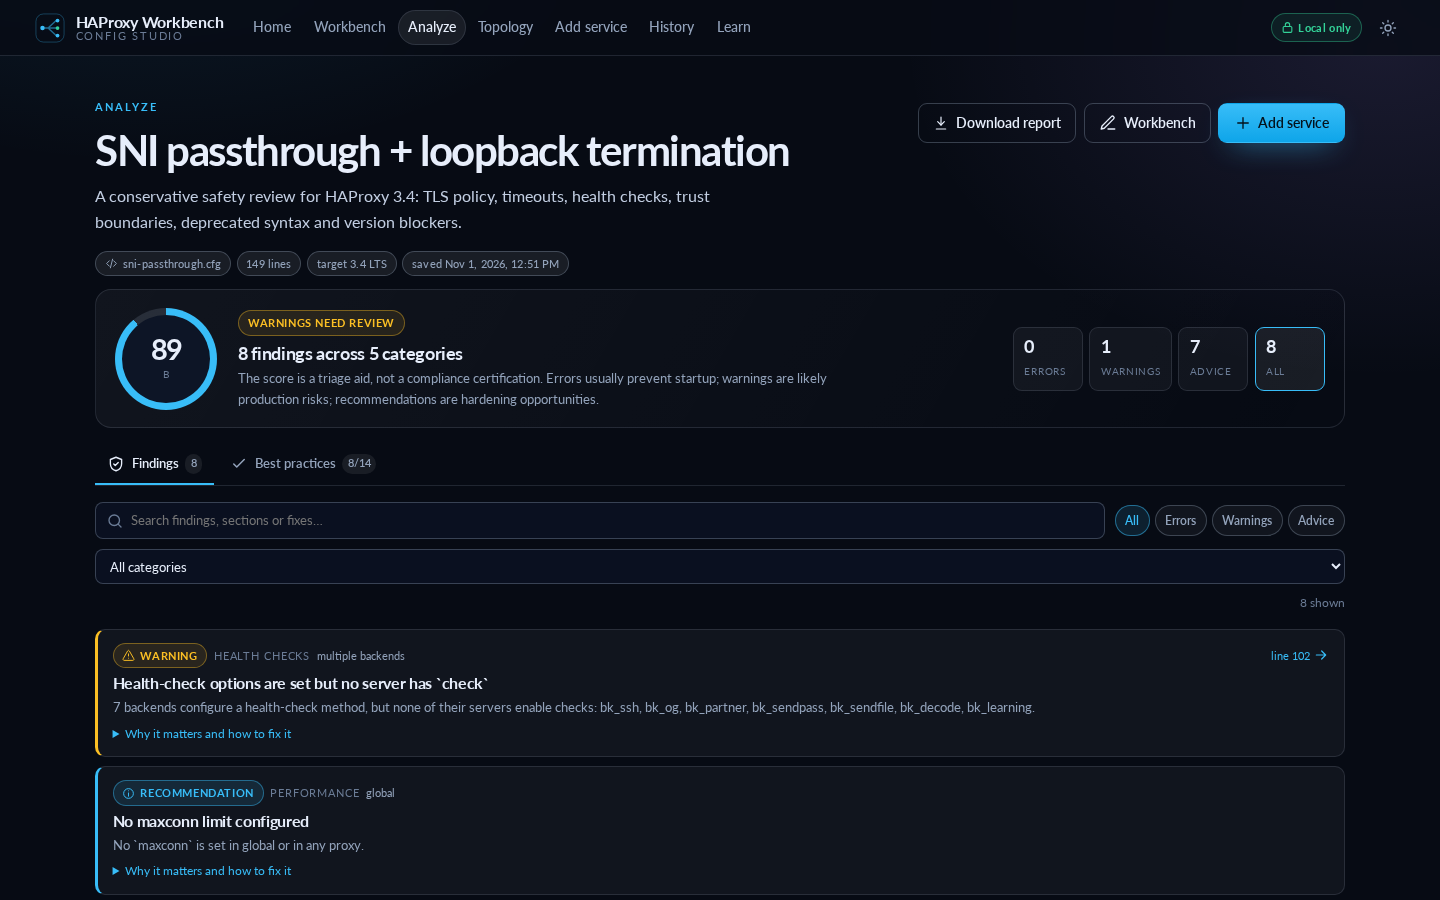
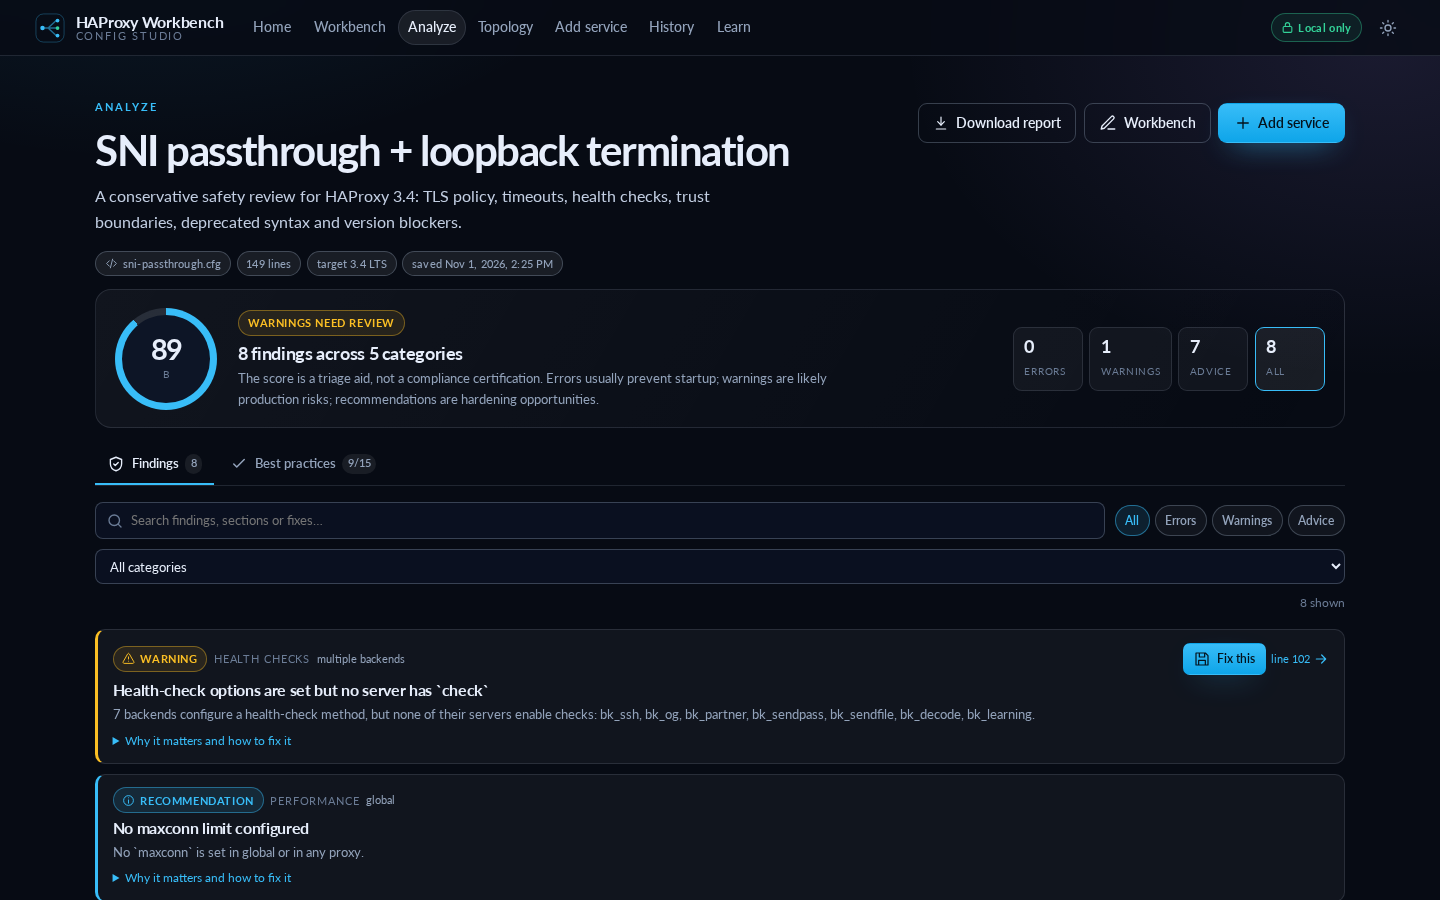
Add one-click warning remediation with config comparison
- Add Fix this action for safe warning findings
- Show full old and new fixed configuration before applying
- Add health-check remediation from the warning card
- Add keep-alive, stats timeout and Runtime API socket fixes
- Show score and warning deltas plus exact diff and risk
- Save applied fixes as new local history versions
- Bump application version to 1.2.0

Changed region(s): [[0.0625, 0.7156, 0.9375, 0.9956], [0.8125, 0.7156, 0.9062, 0.7778], [0.375, 0.28, 0.4062, 0.3111]]

diff --git a/public/assets/js/pages/analyze.js b/public/assets/js/pages/analyze.js
@@ -2,7 +2,9 @@ import { CATEGORY_LABELS, analyzeConfig } from '../config/analyzer.js';
 import {
   BEST_PRACTICE_FIXES,
   applyBestPracticeFixes,
+  applyFindingFix,
   buildBestPracticeChecklist,
+  canFixFinding,
 } from '../config/bestpractices.js';
 import { diffLines } from '../config/diff.js';
 import { parseConfig } from '../config/parser.js';
@@ -15,6 +17,7 @@ import {
   esc,
   formatDate,
   icon,
+  renderConfigCompare,
   renderDiff,
   scoreGauge,
   severityPill,
@@ -29,8 +32,9 @@ const STATUS = {
   'n/a': { label: 'Not applicable', tone: 'neutral', icon: 'info' },
 };
 
-function findingCard(finding) {
+function findingCard(finding, index, model) {
   const severity = SEVERITY[finding.severity] || SEVERITY.info;
+  const fixable = canFixFinding(model, finding);
   const lineLink = finding.line
     ? `<a class="line-link" href="#/workbench?line=${finding.line}">line ${finding.line} ${icon('arrow')}</a>`
     : '';
@@ -43,7 +47,10 @@ function findingCard(finding) {
       <span class="finding-category">${esc(CATEGORY_LABELS[finding.category] || finding.category)}</span>
       ${finding.section ? `<span class="finding-section">${esc(finding.section)}</span>` : ''}
       ${version}
-      ${lineLink}
+      <div class="finding-actions">
+        ${fixable ? `<button class="btn btn-primary btn-sm" type="button" data-fix-finding="${index}" title="Preview a safe fix and compare the old and new configuration">${icon('save')}Fix this</button>` : ''}
+        ${lineLink}
+      </div>
     </div>
     <h3>${esc(finding.title)}</h3>
     <p>${esc(finding.detail)}</p>
@@ -199,7 +206,7 @@ export async function renderAnalyze(view, query) {
         <span class="filter-result" data-filter-result>${analysis.findings.length} shown</span>
       </div>
       <div class="finding-list" data-finding-list>
-        ${analysis.findings.length ? analysis.findings.map(findingCard).join('') : `<div class="empty-panel">${icon('check')}<h2>No findings</h2><p>The built-in analyzer found nothing in this configuration. That is unusual; still validate with <code>haproxy -c</code> and a staging test.</p></div>`}
+        ${analysis.findings.length ? analysis.findings.map((finding, index) => findingCard(finding, index, model)).join('') : `<div class="empty-panel">${icon('check')}<h2>No findings</h2><p>The built-in analyzer found nothing in this configuration. That is unusual; still validate with <code>haproxy -c</code> and a staging test.</p></div>`}
       </div>
       <div class="empty-filter" data-finding-empty hidden>${icon('search')}No findings match the current filter.</div>
       <div class="callout info analyze-disclaimer">${icon('info')}<p><strong>What this does not do:</strong> it does not execute HAProxy, resolve DNS, read certificate files, validate Lua or know your application’s semantics. Use <code>haproxy -c -f</code> with the target binary and test in staging.</p></div>
@@ -287,6 +294,88 @@ export async function renderAnalyze(view, query) {
   });
   applyFilters();
 
+  const openFindingFix = (finding) => {
+    const result = applyFindingFix(current.text, finding);
+    if (!result.applied.length) {
+      toast('No safe automatic fix could be applied to this finding. Use the recommendation as a manual change.', { tone: 'neutral', duration: 5500 });
+      return;
+    }
+    const proposedModel = parseConfig(result.text);
+    const proposedAnalysis = analyzeConfig(proposedModel);
+    const diff = diffLines(current.text, result.text);
+    const appliedFixes = result.applied
+      .map((item) => BEST_PRACTICE_FIXES.find((fix) => fix.id === item.id))
+      .filter(Boolean);
+    const risks = [...new Set(appliedFixes.map((fix) => fix.risk).filter(Boolean))];
+    const errorIncrease = proposedAnalysis.counts.error > analysis.counts.error;
+
+    const dialog = document.createElement('dialog');
+    dialog.className = 'modal fix-preview-modal';
+    dialog.innerHTML = `
+      <div class="modal-card">
+        <div class="modal-head">
+          <span class="pill accent">${icon('save')}Safe automatic fix</span>
+          <h2>Fix: ${esc(finding.title)}</h2>
+          <p class="modal-lede">${esc(finding.detail)}</p>
+        </div>
+        <div class="fix-impact">
+          <span class="pill">Score ${analysis.score} → <strong>${proposedAnalysis.score}</strong></span>
+          <span class="pill ${proposedAnalysis.counts.error ? 'danger' : 'ok'}">${proposedAnalysis.counts.error} errors</span>
+          <span class="pill ${proposedAnalysis.counts.warning ? 'warn' : 'ok'}">${proposedAnalysis.counts.warning} warnings</span>
+          <span class="pill neutral">${diff.added} added / ${diff.removed} removed</span>
+        </div>
+        <ul class="applied-list">${result.applied.map((item) => `<li>${icon('check')}<span><strong>${esc(item.title)}</strong> — ${esc(item.summary)}</span></li>`).join('')}</ul>
+        ${errorIncrease ? `<div class="callout danger">${icon('warning')}<p><strong>Do not apply this automatically.</strong> The proposed config contains more errors than the current one. Review the diff and fix it manually.</p></div>` : ''}
+        <div class="section-head small"><div><span class="eyebrow">Review</span><h3>Old vs new fixed configuration</h3></div><p>Both versions are shown in full. The old version remains in local history after applying.</p></div>
+        ${renderConfigCompare(current.text, result.text)}
+        <details class="fix-details"><summary>Show exact line diff (+${diff.added} / −${diff.removed})</summary>${renderDiff(diff, { compact: true })}</details>
+        ${risks.length ? `<div class="callout warn fix-risk">${icon('warning')}<div><strong>Risk to review</strong><ul>${risks.map((risk) => `<li>${esc(risk)}</li>`).join('')}</ul></div></div>` : ''}
+        <div class="modal-actions">
+          <button class="btn btn-ghost" type="button" data-action="cancel-finding-fix">Cancel</button>
+          <button class="btn btn-primary" type="button" data-action="apply-finding-fix" ${errorIncrease ? 'disabled' : ''}>${icon('save')}Apply fix and save version</button>
+        </div>
+      </div>`;
+    document.body.append(dialog);
+
+    const close = () => {
+      if (dialog.open) dialog.close();
+    };
+    dialog.addEventListener('click', (event) => {
+      if (event.target.closest('[data-action="cancel-finding-fix"]') || event.target === dialog) {
+        close();
+        return;
+      }
+      if (event.target.closest('[data-action="apply-finding-fix"]')) {
+        const committed = commitConfig(result.text, {
+          filename: current.filename || 'haproxy.cfg',
+          label: `Fixed: ${finding.title}`,
+          source: 'finding-fix',
+          note: result.applied.map((item) => item.summary).join(' '),
+        });
+        if (!committed.ok) {
+          toast(committed.error?.message || 'Could not save the fixed configuration.', { tone: 'danger' });
+          return;
+        }
+        close();
+        toast('Warning fixed and saved as a new local version. The old version remains in History.', { tone: 'ok' });
+        reloadRoute();
+      }
+    });
+    dialog.addEventListener('cancel', (event) => {
+      event.preventDefault();
+      close();
+    });
+    dialog.addEventListener('close', () => dialog.remove());
+    dialog.showModal();
+  };
+
+  view.querySelector('[data-finding-list]')?.addEventListener('click', (event) => {
+    const button = event.target.closest('[data-fix-finding]');
+    if (!button) return;
+    const finding = analysis.findings[Number(button.dataset.fixFinding)];
+    if (finding) openFindingFix(finding);
+  });
+
   const updateFixCount = () => {
     const count = selectedFixes(view).length;
     const label = view.querySelector('.fix-actions .muted-note');
@@ -323,7 +412,9 @@ export async function renderAnalyze(view, query) {
       </div>
       <ul class="applied-list">${result.applied.map((item) => `<li>${icon('check')}${esc(item.summary)}</li>`).join('')}</ul>
       ${proposedAnalysis.counts.error > analysis.counts.error ? `<div class="callout danger">${icon('warning')}<p>The proposed configuration produces <strong>more errors</strong> than the current one. Review the diff carefully and do not apply it.</p></div>` : ''}
-      ${renderDiff(diff, { compact: true })}
+      <div class="section-head small"><div><span class="eyebrow">Review</span><h3>Old vs new fixed configuration</h3></div><p>Full source before and after the selected fixes.</p></div>
+      ${renderConfigCompare(current.text, result.text)}
+      <details class="fix-details"><summary>Show exact line diff (+${diff.added} / −${diff.removed})</summary>${renderDiff(diff, { compact: true })}</details>
       <div class="fix-apply-row">
         <button class="btn btn-primary" type="button" data-action="apply-fixes">${icon('save')}Apply and save version</button>
         <button class="btn btn-ghost" type="button" data-action="cancel-fixes">Cancel</button>

diff --git a/public/assets/js/config/bestpractices.js b/public/assets/js/config/bestpractices.js
@@ -100,6 +100,7 @@ export function applyTimeouts(text, model) {
     (section) => ['frontend', 'backend', 'listen'].includes(section.type) && section.effectiveMode === 'http',
   );
   if (hasHttp && !proxyTimeout('http-request')) needed.push(['http-request', '10s']);
+  if (hasHttp && !proxyTimeout('http-keep-alive')) needed.push(['http-keep-alive', '30s']);
   if (needed.length === 0) return { text, summary: 'Core timeouts already present.' };
 
   const insertion = needed.map(([name, value]) => `\ttimeout ${name} ${value}`);
@@ -166,6 +167,40 @@ export function applyForwardfor(text, model) {
   };
 }
 
+export function applyStatsTimeout(text, model) {
+  const global = globalSection(model);
+  const socket = global?.items.find((item) => item.keyword === 'stats' && item.args[0] === 'socket');
+  if (!socket) return { text, summary: 'No runtime socket to update.' };
+  if (global.items.some((item) => item.keyword === 'stats' && item.args[0] === 'timeout')) {
+    return { text, summary: 'Stats timeout already present.' };
+  }
+  const line = `${indentOf(socket.raw)}stats timeout 30s`;
+  return {
+    text: ensureTrailingNewline(applyEdits(text, [{ type: 'insert', line: socket.line + 1, lines: [line] }])),
+    summary: 'Added stats timeout 30s to the Runtime API socket configuration.',
+  };
+}
+
+export function applyStatsSocketMode(text, model) {
+  const global = globalSection(model);
+  const socket = global?.items.find((item) => item.keyword === 'stats' && item.args[0] === 'socket');
+  if (!socket) return { text, summary: 'No runtime socket to update.' };
+  const args = [...socket.args];
+  const modeIndex = args.indexOf('mode');
+  if (modeIndex >= 0) {
+    if (args[modeIndex + 1] === '660') return { text, summary: 'Runtime socket already uses mode 660.' };
+    args[modeIndex + 1] = '660';
+  } else {
+    const levelIndex = args.indexOf('level');
+    args.splice(levelIndex >= 0 ? levelIndex : args.length, 0, 'mode', '660');
+  }
+  const line = `${indentOf(socket.raw)}stats ${args.join(' ')}`;
+  return {
+    text: ensureTrailingNewline(applyEdits(text, [{ type: 'replace', line: socket.line, text: line }])),
+    summary: 'Set the Runtime API socket to mode 660 so only the owner/group can use it.',
+  };
+}
+
 export const BEST_PRACTICE_FIXES = [
   {
     id: 'tls-baseline',
@@ -181,17 +216,17 @@ export const BEST_PRACTICE_FIXES = [
   {
     id: 'timeouts',
     title: 'Add explicit core timeouts',
-    summary: 'Add missing connect, client, server and HTTP request-header timeouts to defaults.',
+    summary: 'Add missing connect, client, server, HTTP request-header and keep-alive timeouts to defaults.',
     detail:
-      'This fix only fills gaps. It never overwrites an existing timeout. Values are deliberately conservative starting points: connect 5s, client/server 30s, http-request 10s.',
+      'This fix only fills gaps. It never overwrites an existing timeout. Values are deliberately conservative starting points: connect 5s, client/server 30s, http-request 10s, http-keep-alive 30s.',
     risk: 'Low–medium. A 30s server timeout may be too short for long-running generation or streaming endpoints. Review the values before applying.',
     impact: 'Reliability',
     applies: (model) => {
       const defaults = model.defaults[0];
       if (!defaults) return false;
       return ['connect', 'client', 'server'].some((name) => !effectiveTimeout(model, defaults, name))
-        || (model.sections.some((section) => ['frontend', 'backend'].includes(section.type) && section.effectiveMode === 'http')
-          && !effectiveTimeout(model, defaults, 'http-request'));
+        || (model.sections.some((section) => ['frontend', 'backend', 'listen'].includes(section.type) && section.effectiveMode === 'http')
+          && (!effectiveTimeout(model, defaults, 'http-request') || !effectiveTimeout(model, defaults, 'http-keep-alive')));
     },
     apply: applyTimeouts,
   },
@@ -219,7 +254,72 @@ export const BEST_PRACTICE_FIXES = [
     applies: (model) => frontendsMissingForwardfor(model).length > 0,
     apply: applyForwardfor,
   },
+  {
+    id: 'stats-timeout',
+    title: 'Bound the Runtime API socket timeout',
+    summary: 'Add `stats timeout 30s` beside a configured stats socket.',
+    detail:
+      'A runtime client that connects and stalls can hold resources. A bounded timeout keeps the Runtime API responsive without changing traffic routing.',
+    risk: 'Low. Long-running interactive Runtime API sessions may need a higher timeout or reconnects.',
+    impact: 'Operations',
+    applies: (model) => {
+      const global = globalSection(model);
+      return Boolean(global?.items.some((item) => item.keyword === 'stats' && item.args[0] === 'socket')) &&
+        !global.items.some((item) => item.keyword === 'stats' && item.args[0] === 'timeout');
+    },
+    apply: applyStatsTimeout,
+  },
+  {
+    id: 'stats-socket-permissions',
+    title: 'Restrict the Runtime API socket',
+    summary: 'Set the admin stats socket to mode 660.',
+    detail:
+      'The admin socket can change server state and weights. Ensure only the HAProxy owner/group can access it.',
+    risk: 'Low–medium. A monitoring process that previously relied on broader socket permissions may need to join the HAProxy group.',
+    impact: 'Security',
+    applies: (model) => {
+      const global = globalSection(model);
+      const socket = global?.items.find((item) => item.keyword === 'stats' && item.args[0] === 'socket');
+      if (!socket) return false;
+      const modeIndex = socket.args.indexOf('mode');
+      const mode = modeIndex >= 0 ? socket.args[modeIndex + 1] : null;
+      if (!mode) return socket.args.includes('level') && socket.args[socket.args.indexOf('level') + 1] === 'admin';
+      return /^[0-7]{3,4}$/.test(mode) && (Number.parseInt(mode, 8) & 0o007) !== 0;
+    },
+    apply: applyStatsSocketMode,
+  },
 ];
+
+/** Map analyzer finding ids to the safe best-practice fixes that can remediate them. */
+const FINDING_FIX_MAP = [
+  { pattern: /^health-(checks-not-enabled|no-check|mixed-checks)/, ids: ['server-checks'] },
+  {
+    pattern: /^timeouts-(default-(connect|client|server)|frontend-client|backend-(server|connect)|http-request|http-keepalive)/,
+    ids: ['timeouts'],
+  },
+  { pattern: /^tls-(old-min-version|min-version-missing|tickets-enabled)/, ids: ['tls-baseline'] },
+  { pattern: /^routing-no-forwardfor/, ids: ['forwardfor'] },
+  { pattern: /^operations-stats-timeout/, ids: ['stats-timeout'] },
+  { pattern: /^security-stats-socket-(mode|world)/, ids: ['stats-socket-permissions'] },
+];
+
+export function fixIdsForFinding(finding) {
+  if (!finding?.id) return [];
+  return FINDING_FIX_MAP
+    .filter((entry) => entry.pattern.test(finding.id))
+    .flatMap((entry) => entry.ids);
+}
+
+export function canFixFinding(model, finding) {
+  return fixIdsForFinding(finding).some((id) => {
+    const fix = BEST_PRACTICE_FIXES.find((entry) => entry.id === id);
+    return fix ? fix.applies(model) : false;
+  });
+}
+
+export function applyFindingFix(text, finding) {
+  return applyBestPracticeFixes(text, fixIdsForFinding(finding));
+}
 
 export function applyBestPracticeFixes(text, ids) {
   let current = text;

diff --git a/public/assets/css/app.css b/public/assets/css/app.css
@@ -697,6 +697,26 @@ dialog.modal::backdrop { background: rgba(2, 6, 15, .72); backdrop-filter: blur(
 .routing-map .table-scroll { border: 0; border-radius: 0; }
 .routing-map .data-table { font-size: .76rem; }
 .condition-code { white-space: normal; overflow-wrap: anywhere; }
+.config-compare { display: grid; grid-template-columns: 1fr 1fr; gap: .55rem; margin: .7rem 0; }
+.config-pane { border: 1px solid var(--line); border-radius: 8px; overflow: hidden; background: var(--bg-soft); min-width: 0; }
+.config-pane.old { border-top: 2px solid var(--line-strong); }
+.config-pane.new { border-top: 2px solid var(--ok); }
+.config-pane-head { display: flex; justify-content: space-between; align-items: center; gap: .5rem; padding: .35rem .55rem; border-bottom: 1px solid var(--line); font-size: .66rem; text-transform: uppercase; letter-spacing: .08em; color: var(--dim); }
+.config-pane-head small { font-family: var(--mono); font-size: .64rem; text-transform: none; letter-spacing: 0; }
+.config-pane pre { margin: 0; padding: .6rem; max-height: 380px; overflow: auto; font-size: .7rem; line-height: 1.5; white-space: pre; }
+.config-pane code { color: var(--text-soft); }
+.finding-actions { margin-left: auto; display: flex; gap: .35rem; align-items: center; flex-wrap: wrap; }
+.finding-actions .line-link { margin-left: 0; }
+.fix-preview-modal .modal-card { max-width: min(1180px, calc(100vw - 2rem)); }
+.fix-preview-modal .config-pane pre { max-height: 420px; }
+.fix-impact { display: flex; gap: .35rem; flex-wrap: wrap; margin: .5rem 0; }
+.fix-risk { margin-top: .6rem; }
+.fix-details { margin-top: .5rem; }
+.fix-details > summary { font-size: .76rem; color: var(--accent); cursor: pointer; }
+@media (max-width: 760px) {
+  .config-compare { grid-template-columns: 1fr; }
+  .config-pane pre { max-height: 280px; }
+}
 .text-topology { margin-top: .7rem; border: 1px solid var(--line); border-radius: 10px; background: var(--panel); }
 .text-topology summary { padding: .55rem .7rem; font-size: .8rem; color: var(--muted); cursor: pointer; }
 .text-topology[open] summary { border-bottom: 1px solid var(--line); }

diff --git a/public/assets/js/ui.js b/public/assets/js/ui.js
@@ -171,6 +171,21 @@ export function downloadJson(filename, value) {
   downloadText(filename, `${JSON.stringify(value, null, 2)}\n`, 'application/json;charset=utf-8');
 }
 
+export function renderConfigCompare(oldText, newText) {
+  const oldLines = String(oldText ?? '').replace(/\r\n?/g, '\n').split('\n');
+  const newLines = String(newText ?? '').replace(/\r\n?/g, '\n').split('\n');
+  return `<div class="config-compare" role="region" aria-label="Old and new configuration">
+    <section class="config-pane old">
+      <div class="config-pane-head"><span>Old configuration</span><small>${oldLines.length} lines</small></div>
+      <pre><code>${esc(oldText)}</code></pre>
+    </section>
+    <section class="config-pane new">
+      <div class="config-pane-head"><span>New fixed configuration</span><small>${newLines.length} lines</small></div>
+      <pre><code>${esc(newText)}</code></pre>
+    </section>
+  </div>`;
+}
+
 export function renderDiff(diff, options = {}) {
   const rows = options.compact ? diff.hunks.flatMap((hunk) => hunk.rows) : diff.rows;
   if (rows.length === 0) {

diff --git a/public/assets/js/pages/common.js b/public/assets/js/pages/common.js
@@ -111,6 +111,7 @@ export function sourceLabel(source) {
     manual: 'Manual save',
     service: 'Service wizard',
     'best-practice': 'Best practice',
+    'finding-fix': 'Warning fix',
     restore: 'Restore',
     revert: 'Restore',
   };

diff --git a/scripts/verify.py b/scripts/verify.py
@@ -70,6 +70,7 @@ def main() -> int:
         "docs/screenshots/topology.png",
         "docs/screenshots/services.png",
         "docs/screenshots/security.png",
+        "docs/screenshots/fix-dialog.png",
     ]:
         require(path)
 

diff --git a/README.md b/README.md
@@ -30,6 +30,10 @@ The published container is a static file server. All parsing, analysis, topology
 |---|---|
 | ![Service wizard](docs/screenshots/services.png) | ![Security](docs/screenshots/security.png) |
 
+| Warning fix with old/new config review |
+|---|
+| ![Warning fix](docs/screenshots/fix-dialog.png) |
+
 All screenshots use the included anonymised example configurations.
 
 ---
@@ -67,7 +71,18 @@ The analyzer reports errors, warnings and recommendations across:
 - Logging, runtime socket permissions, `maxconn`, connection reuse and stick-table expiry
 - HAProxy 3.x blockers: removed syntax, `program`/`mailers`, duplicate names, `enabled` dynamic servers, renamed OCSP tuning, deprecated directives
 
-Each finding has a line number, explanation, why it matters and a concrete recommendation. The **Best practices** tab adds a pass/review/fail checklist plus opt-in, diff-previewed fixes for TLS baseline, missing timeouts, server health checks and client-IP forwarding.
+Each finding has a line number, explanation, why it matters and a concrete recommendation. The **Best practices** tab adds a pass/review/fail checklist plus opt-in, diff-previewed fixes for TLS baseline, missing timeouts, server health checks, Runtime API hardening and client-IP forwarding.
+
+Findings that have a safe deterministic remediation expose a **Fix this** button directly. Clicking it shows:
+
+- the full old configuration and the full new fixed configuration side by side
+- the resolved fix summary
+- score and error/warning deltas
+- the exact line diff
+- the risk to review before applying
+- an apply step that creates a new local history version
+
+The health-check warning in the examples — “Health-check options are set but no server has `check`” — is fixed directly by enabling `check inter 2s fall 3 rise 2` on the affected server lines. The old version remains available in History. Warnings that require an environment-specific decision (certificate paths, client CA bundles, logging destinations) still show manual guidance rather than making an unsafe change.
 
 ### See and simulate the routing graph
 
